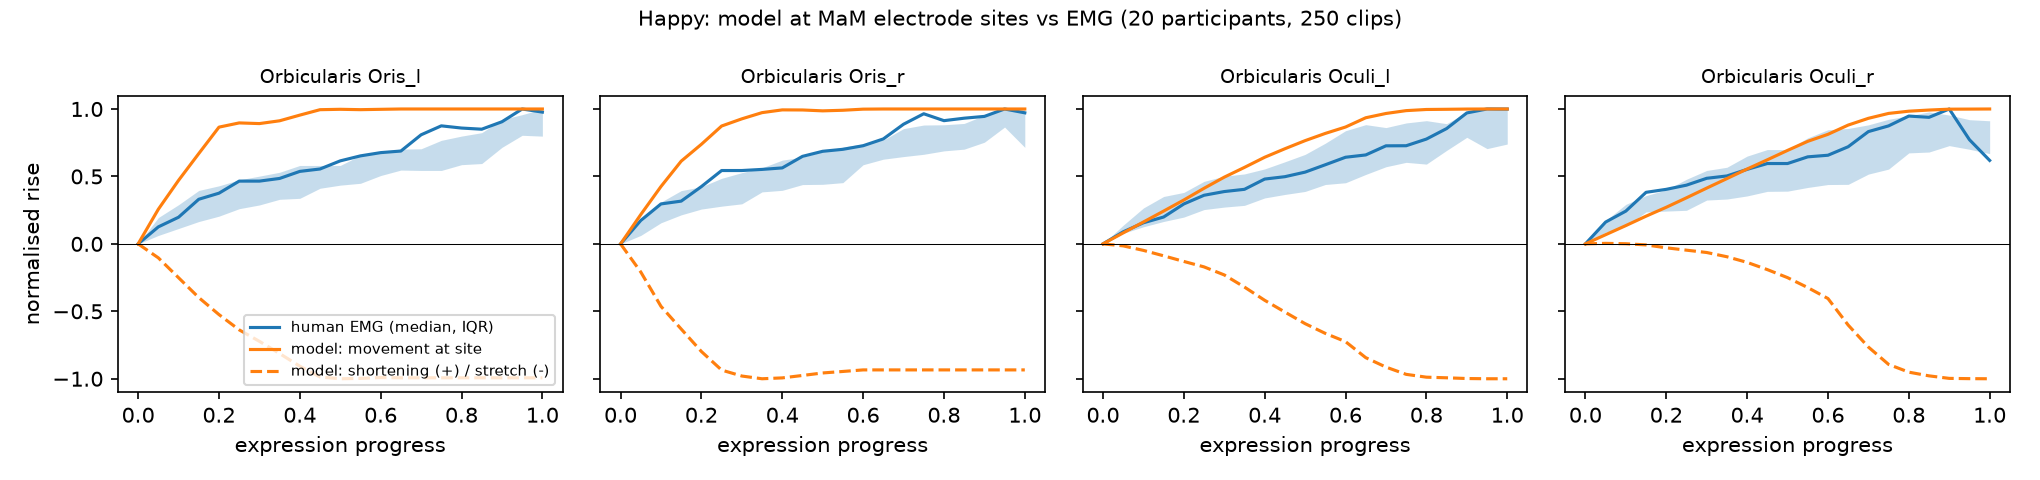
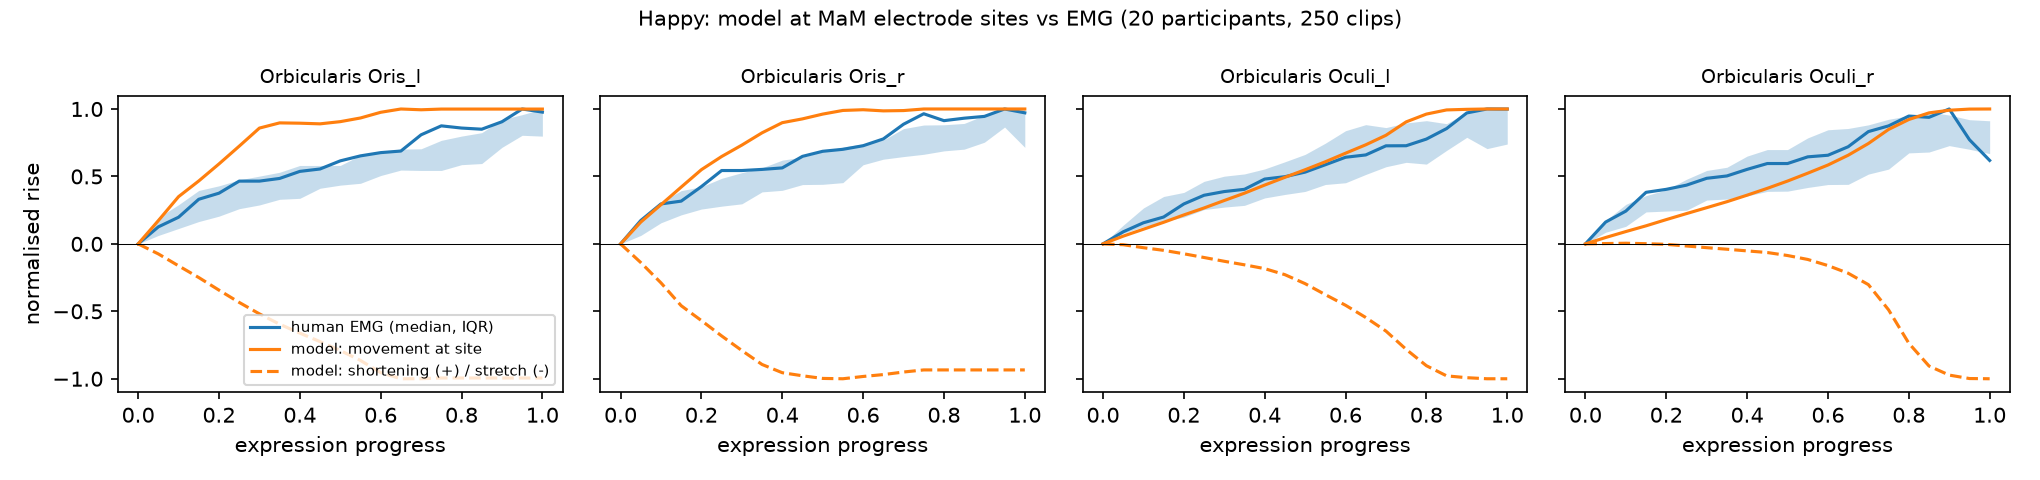
fix(b1): net-progress clock and cross-run check for item 0 comparison

diff --git a/b1-emg-analysis/src/fair_compare.py b/b1-emg-analysis/src/fair_compare.py
@@ -7,7 +7,9 @@ human: tracked smile). We never compare units (EMG is not movement); we compare
   3. timing/shape: when does each site rise along the expression, against the spread
      between people (noise ceiling: each person vs the median of everyone else)?
 
-Usage:  python fair_compare.py ../data/model/hpy ../data/model/electrodes.json
+Usage:  python fair_compare.py ../data/model/electrodes.json ../data/model/hpy [more runs ...]
+        The first run is the main comparison; extra runs (e.g. neutral->AU6, neutral->AU12)
+        are checked for whether the model-side findings hold in other transitions.
 """
 import sys
 from pathlib import Path
@@ -146,5 +148,29 @@ def main(run_dir, electrodes_path):
     print(table.round(2).to_string(index=False))
 
 
+def cross_run(run_dirs, electrodes_path):
+    """Model-side numbers per run, to see which findings survive a different transition."""
+    pos, upc = ve.load_electrodes(electrodes_path)
+    rows = []
+    for run in run_dirs:
+        paths, _ = model_run.load_run(run)
+        prog = model_run.progress(paths)
+        drv = model_run.driven(paths)
+        for ch, tissue in ve.CHANNEL_TISSUE.items():
+            if tissue not in drv:
+                continue
+            eps = {s: ve.pair_signals(paths[tissue], pos[ch], s * upc)[0][-1] for s in (0.5, 1.0, 2.0)}
+            trans = ve.pair_signals(paths[tissue], pos[ch], upc)[1]
+            rows.append({"run": Path(run).name, "steps": len(prog) - 1,
+                         "wasted_motion": model_run.wasted_motion(paths), "channel": ch,
+                         "eps_end_pct_r0.5": 100 * eps[0.5], "eps_end_pct_r": 100 * eps[1.0],
+                         "eps_end_pct_r2": 100 * eps[2.0], "site_t50": prog[np.argmax(rise(trans) >= 0.5)]})
+    table = pd.DataFrame(rows)
+    table.to_csv(OUT / "results_model_runs.csv", index=False)
+    print("\nmodel side across runs:")
+    print(table.round(2).to_string(index=False))
+
+
 if __name__ == "__main__":
-    main(sys.argv[1], sys.argv[2])
+    main(sys.argv[2], sys.argv[1])
+    cross_run(sys.argv[2:], sys.argv[1])

diff --git a/b1-emg-analysis/src/model_run.py b/b1-emg-analysis/src/model_run.py
@@ -71,12 +71,20 @@ def driven(paths, tol=1e-9):
 
 
 def progress(paths):
-    """Expression progress 0 -> 1 for each step: fraction of the total path length travelled.
+    """Expression progress 0 -> 1 for each step: net progress towards the final pose.
 
-    Uses all driven landmarks together. Path length (not distance to the target) is used so
-    the clock always moves forward, even when the solver oscillates.
+    p(t) = 1 - |X(t) - X_end| / |X_0 - X_end| over all driven landmarks, with a running
+    maximum so the clock never goes backwards.
+
+    Not path length: the solver travels 2.6-3x further than the net displacement (it jitters
+    on its way), so a path-length clock mostly counts jitter and makes real movement look early.
     """
     X = np.concatenate([paths[k].reshape(len(paths[k]), -1) for k in driven(paths)], axis=1)
-    step = np.linalg.norm(np.diff(X, axis=0), axis=1)
-    s = np.concatenate([[0.0], np.cumsum(step)])
-    return s / s[-1]
+    d = np.linalg.norm(X - X[-1], axis=1)
+    return np.maximum.accumulate(1.0 - d / d[0])
+
+
+def wasted_motion(paths):
+    """Total landmark path length divided by net displacement (1.0 = straight to the target)."""
+    X = np.concatenate([paths[k].reshape(len(paths[k]), -1) for k in driven(paths)], axis=1)
+    return np.linalg.norm(np.diff(X, axis=0), axis=1).sum() / np.linalg.norm(X[-1] - X[0])

diff --git a/b1-emg-analysis/tests/test_fair_compare.py b/b1-emg-analysis/tests/test_fair_compare.py
@@ -60,6 +60,17 @@ def test_rebuilds_paths_and_progress():
         assert abs(p[25] - 0.5) < 1e-9          # constant speed -> halfway at the middle step
 
 
+def test_progress_ignores_jitter():
+    """Overshoot-and-return must not count as progress; wasted motion must be reported."""
+    X = np.array([0, 1, 3, 2, 3, 2.5, 4.0])                 # net 4, path 1+2+1+1+0.5+1.5 = 7
+    paths = {"OOR": np.zeros((len(X), 300, 3))}
+    paths["OOR"][:, 0, 0] = X
+    p = model_run.progress(paths)
+    assert np.all(np.diff(p) >= 0) and p[-1] == 1.0
+    assert abs(p[2] - 0.75) < 1e-12 and abs(p[3] - 0.75) < 1e-12   # stepping back is not progress
+    assert abs(model_run.wasted_motion(paths) - 7 / 4) < 1e-12
+
+
 def test_shortening_sign_and_size():
     with tempfile.TemporaryDirectory() as t:
         make_run(Path(t), contract=0.2)

diff --git a/b1-emg-analysis/README.md b/b1-emg-analysis/README.md
@@ -88,7 +88,8 @@ instead of averaging a whole muscle.
 
 **Inputs** (all local, gitignored under `data/`):
 - MaM happy clips: 250 of 284 usable (20 participants); 34 skipped for a weak tracked smile.
-- Model run `hpy` (job 261026-171605): one transition, neutral → AU6+AU12+AU25, 1,772 solver steps.
+- Model runs (from `wip/mam-validation-2026-11`): main `hpy` (job 261026-171605, neutral → AU6+AU12+AU25,
+  1,772 steps), plus checks `au6` (neutral → AU6, 323 steps) and `au12` (neutral → AU12, 530 steps).
 - Electrode positions `electrodes.json` (Fridlund placement on the lab head, by Oleh and Richard,
   branch `wip/mam-validation-2026-11`). Checked to be in the same coordinate space as the muscles:
   oculi electrodes sit 0.2–1.3 units and oris electrodes 2–5 units from their muscle.
@@ -102,33 +103,43 @@ instead of averaging a whole muscle.
   ε = 1 − |v1−v2|/|v1(0)−v2(0)| (+ contracting, − stretched) and translation of the pair midpoint.
 - Human (`mam_happy.py`): a(t) = (envelope − rest) / session's 95th-percentile schaede level
   (0 = rest, ~1 = near-max effort); progress 0→1 from the tracked smile (MediaPipe mouthSmile).
-- Common clock: model progress = fraction of total landmark path travelled. Only shapes and signs
-  are compared, never µV against movement.
+- Common clock: model progress = net progress towards the final pose (1 − distance to end / start
+  distance, running max). Not path length: the solver travels 2.6–3.1× further than the net
+  displacement (it jitters), which would make real movement look early. Only shapes and signs are
+  compared, never µV against movement.
 - Noise ceiling: each participant's rise curve vs the median of everyone else (RMSE).
 
-**Results** (`results_fair_compare_happy.csv`, `figures/fair_compare_happy.png`)
+**Results** (`results_fair_compare_happy.csv`, `results_model_runs.csv`, `figures/fair_compare_happy.png`)
 
 | Site | Humans (a at apex, % active) | Model | Verdict |
 |---|---|---|---|
 | Zygomaticus l/r | 0.84 / 0.92, 100% | not driven | missing agonist |
 | Levator labii sup. l/r | 0.74 / 0.76, 100% | not driven | missing agonist |
 | Mentalis, depressor ang. oris | 0.20–0.38, 75–90% | not driven | missing agonist |
-| Orbicularis oculi l/r | 0.32 / 0.18, 90–95% | stretched −7.5% | sign conflict |
-| Orbicularis oris l/r | 0.37 / 0.41, 80–90% | stretched −8 to −9% | sign conflict (r only, see below) |
+| Orbicularis oculi l/r | 0.32 / 0.18, 90–95% | never clearly shortened | no contraction at the site |
+| Orbicularis oris l/r | 0.37 / 0.41, 80–90% | stretched in `hpy` only | not robust |
 | Frontalis, corrugator, procerus | ≈ 0, 0–10% | still | agree: silent |
 
-- **Sign:** humans contract orbicularis oculi in a smile; the model stretches it at both electrode
-  sites, at every patch radius tried (0.5r: −12/−13%, 2r: −3/−4%). This is robust.
-  Orbicularis oris right is stretched at all radii; **left flips to +4% at 0.5r**, so it is not robust.
-- **Timing/shape:** oculi rise in the model is within the human spread (RMSE 0.13–0.16 vs ceiling
-  median 0.17). Oris moves too early in the model (t50 = 0.15 vs 0.25–0.40 in humans; RMSE 0.25–0.30,
-  around the 90th percentile of person-to-group differences, ceiling median 0.11–0.14).
+- **Recruitment (robust):** the muscles doing most of the work in a human smile are not driven by the
+  model at all. This holds by construction in every run.
+- **Orbicularis oculi:** humans contract it (active in 90–95% of participants). In `hpy` the model
+  stretches it at the electrode sites (−7.5%, −3 to −13% across patch radii). But in the AU6-only run,
+  which is the eye-squint movement itself, its length barely changes (−1 to +4%). So the stretch comes
+  from combining AU6+AU12+AU25; what holds in both runs is only that the model never clearly
+  *shortens* the muscle where the electrode is.
+- **Orbicularis oris:** stretched −8 to −9% in `hpy`, but the left site flips to +4% at a small patch
+  and both sites are ~0 in the AU12-only run. Not a finding.
+- **Timing/shape** (net-progress clock): oculi rise is within the human spread (RMSE 0.08–0.17 vs a
+  person-to-group median of 0.17). Oris rises somewhat earlier than in humans (half-way at 0.20 vs
+  0.25–0.40; RMSE 0.17–0.24 vs ceiling median 0.11–0.14, 90th percentile 0.26–0.28), so at the edge
+  of the human range, not outside it. Earlier versions of this table used a path-length clock and
+  overstated this gap.
 
 **Limits**
 - EMG is the enabler, not force or movement; shortening is a stand-in for contraction
   (lip pressing gives EMG without shortening; crosstalk, especially around the mouth).
 - MaM envelopes use a ~500 ms RMS window, so timing is blurred; posed expressions.
-- One model run, one head, landmark level (300 per muscle, not the full mesh); on the oris ring the
+- Three model runs, one head, landmark level (300 per muscle, not the full mesh); on the oris ring the
   patch can include inner-surface landmarks (a geodesic patch on the mesh would fix this).
 - Model "l" assumed to be the participant's left (consistent with electrode placement, not verified).
 - Solver progress is not physiological time.
@@ -139,7 +150,7 @@ instead of averaging a whole muscle.
 python3 -m venv .venv && .venv/bin/pip install numpy scipy pandas matplotlib mat-io
 .venv/bin/python tests/test_emg.py && .venv/bin/python tests/test_fair_compare.py
 cd src && ../.venv/bin/python mimetic_smile.py && ../.venv/bin/python mmm_happy.py
-../.venv/bin/python fair_compare.py ../data/model/hpy ../data/model/electrodes.json
+../.venv/bin/python fair_compare.py ../data/model/electrodes.json ../data/model/hpy ../data/model/au6 ../data/model/au12
 ```
 
 ## Citations
